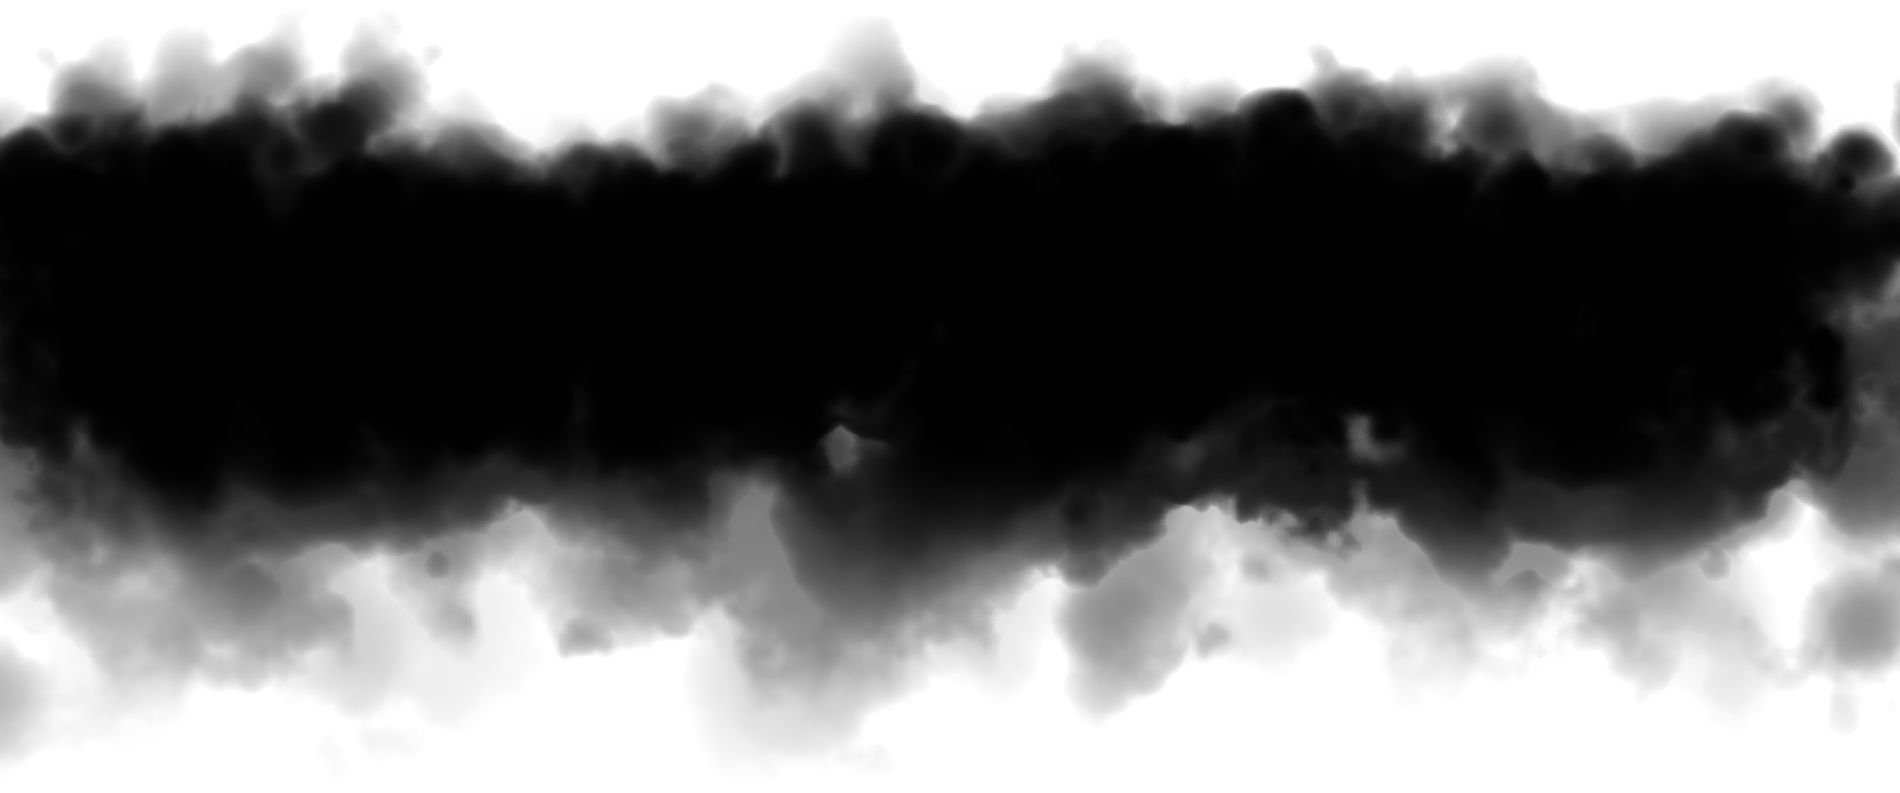
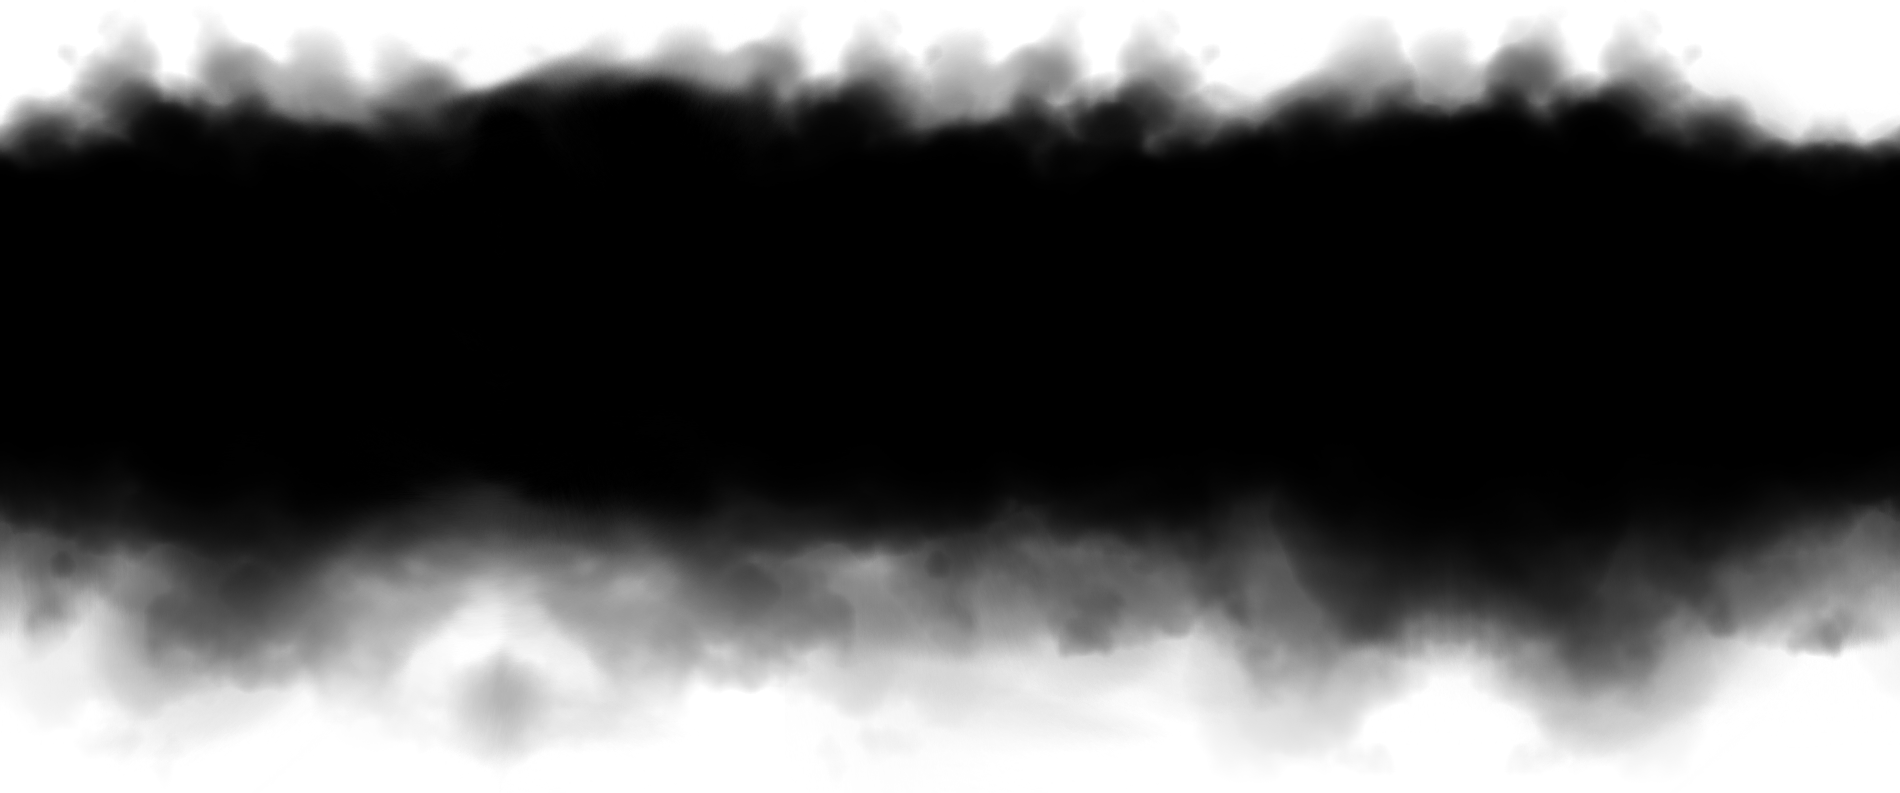
A bunch of changes
Added a bunch of assets and code, super close to finishing. Just need to finish working on collision events.

diff --git a/game.js b/game.js
@@ -22,10 +22,18 @@ const Background1Image = new Image();
 Background1Image.src = './assets/Background_01.png';
 const Background2Image = new Image();
 Background2Image.src = './assets/Background_02.png';
-const smokeCloud = new Image();
-smokeCloud.src = './assets/cloud.png';
 const smokeBigCloud = new Image();
 smokeBigCloud.src = './assets/blacksmoke.png';
+const smallGarbage = new Image();
+smallGarbage.src = './assets/Garbage1.png';
+const bigGarbage = new Image();
+bigGarbage.src = './assets/Garbage2.png';
+const deadlyGarbage = new Image();
+deadlyGarbage.src = './assets/DeadlyGarbage.png';
+const closedTrashCan = new Image();
+closedTrashCan.src = './assets/TrashCanClosed.png';
+const openTrashCan = new Image();
+openTrashCan.src = './assets/TrashCanOpen.png';
 
 const ground = {
   x: 0,
@@ -33,12 +41,6 @@ const ground = {
   width: groundPNGPixels,
   height: groundPNGPixels,
 };
-const cloud={
-  x: 0,
-  y: 0,
-  width: 0,
-  height: 0
-}
 const bigSmoke = {
   x: 0,
   y: 0,
@@ -78,8 +80,42 @@ const playerBox = {
   width: player.width-64,
   height: player.height-16
 };
-
+//trash
+const smallTrash = {
+  x:canvas.width+64,
+  y:0,
+  width: 64,
+  height: 64,
+  isSpawned: false
+}
+const bigTrash = {
+  x:canvas.width+128,
+  y:0,
+  width:96,
+  height:96,
+  isSpawned: false
+}
+const deadlyTrash = {
+  x: canvas.width + 96,
+  y:0,
+  width:128,
+  height:128,
+  isSpawned: false
+}
+const trashCan = {
+  x: canvas.width + 96,
+  y:0,
+  width:52,
+  height:96,
+  isSpawned: false,
+  current: openTrashCan
+}
 const frame = {
+  Counter: 0,
+  Delay: 0
+}
+const pollution = {
+  amount: 0,
   Counter: 0,
   Delay: 0
 }
@@ -88,6 +124,8 @@ let groundYPosition = (canvas.height-groundPNGPixels-144)  + (24);
 player.y = groundYPosition;
 let midAir = 0;
 const isdrawBox = true;
+let barWidth = 0;
+const maxWidth = 100;
 
 function checkCollision(a, b){
   if (a.x < b.x + b.width &&
@@ -109,12 +147,75 @@ function drawBox(){
   ctx.strokeStyle = "red"; // set the color of the rectangle border
   ctx.lineWidth = 2; // set the width of the rectangle border
   ctx.strokeRect(playerBox.x, playerBox.y, playerBox.width, playerBox.height); // draw the player bounding box
+  ctx.strokeRect(deadlyTrash.x, deadlyTrash.y, deadlyTrash.width, deadlyTrash.height);
+  ctx.strokeRect(smallTrash.x, smallTrash.y, smallTrash.width, smallTrash.height);
+  ctx.strokeRect(bigTrash.x, bigTrash.y, bigTrash.width, bigTrash.height);
+  ctx.strokeRect(trashCan.x, trashCan.y, trashCan.width, trashCan.height);
+}
+function spawnItem(item, itemImage, width, height){
+  if (item.x <= -item.width){
+    item.isSpawned = false;
+  }
+  if (item.isSpawned){
+    item.x -= player.speed;
+    ctx.drawImage(itemImage, 0, 0, itemImage.width, itemImage.height, item.x, item.y, width, height);
+    return
+  }
+  if (!item.isSpawned){
+    item.x = canvas.width+item.width;
+  }
 }
 
 function update() {
     // Check if player is playing
     if (!isPlaying) {
       return;
+    }
+
+    pollution.Delay = 500;
+    pollution.Counter++;
+    if (pollution.Counter >= pollution.Delay) {
+      pollution.Counter = 0;
+      pollution.amount += player.speed;
+    }
+
+    if (Math.random() < 0.005 && !smallTrash.isSpawned){
+      const random = Math.random();
+      if (random<=0.33){
+        smallTrash.y = canvas.height-ground.height-64;
+      }
+      else if(random>0.33 && random<=0.66){
+        smallTrash.y = canvas.height-ground.height-256+24;
+      }
+      else{
+        smallTrash.y = canvas.height-ground.height-384+24;
+      }
+      smallTrash.isSpawned = true;
+    }
+
+    if (Math.random() < 0.001 && !bigTrash.isSpawned){
+      const random = Math.random();
+      if (random<=0.33){
+        bigTrash.y = canvas.height-ground.height-96;
+      }
+      else if(random>0.33 && random<=0.66){
+        bigTrash.y = canvas.height-ground.height-256;
+      }
+      else{
+        bigTrash.y = canvas.height-ground.height-384;
+      }
+      bigTrash.isSpawned = true;
+    }
+
+    if (Math.random() < 0.002 && !deadlyTrash.isSpawned){
+      deadlyTrash.y = canvas.height-ground.height-110;
+      deadlyTrash.isSpawned = true;
+    }
+
+    
+    if (score>0 && score%400 == 0 && !trashCan.isSpawned){
+      trashCan.y = canvas.height-ground.height-96;
+      trashCan.isSpawned = true;
     }
 
     if(score>=100 && score<1000){
@@ -143,7 +244,9 @@ function update() {
       player.current = (player.current + 1) % player.total;
       frame.Counter = 0;
       score++;
+      bigSmoke.x = bigSmoke.x-1;
     }
+    bigSmoke.y = -500 + (pollution.amount*5);
 
     player.jumpHeight = groundYPosition - (player.jumpHeightVariable);
 
@@ -162,6 +265,9 @@ function update() {
     if (Background2.x <= (-canvas.width)) {
       Background2.x = 0;
      }
+     if (bigSmoke.x <=(-canvas.width)){
+      bigSmoke.x = 0;
+     }
 }
   
   // Set up draw function
@@ -172,12 +278,7 @@ function update() {
     ctx.drawImage(Background1Image, 0, 0, Background1Image.width, Background1Image.height, Background1.x, 0, canvas.width, canvas.height);
     ctx.drawImage(Background1Image, 0, 0, Background1Image.width, Background1Image.height, Background1.x + canvas.width, 0, canvas.width, canvas.height);
     ctx.drawImage(Background2Image, 0, 0, Background2Image.width, Background2Image.height, Background2.x, 0, canvas.width, canvas.height);
-    ctx.drawImage(Background2Image, 0, 0, Background2Image.width, Background2Image.height, Background2.x + canvas.width, 0, canvas.width, canvas.height);
-    ctx.globalAlpha = 0.8;
-    ctx.drawImage(smokeBigCloud, 0, 0, smokeBigCloud.width, smokeBigCloud.height, bigSmoke.x, bigSmoke.y, 960, 400)
-    ctx.globalAlpha = 1;
-    ctx.drawImage(smokeBigCloud, 0, 0, smokeBigCloud.width, smokeBigCloud.height, bigSmoke.x, bigSmoke.y-100, 960, 400)
-    
+    ctx.drawImage(Background2Image, 0, 0, Background2Image.width, Background2Image.height, Background2.x + canvas.width, 0, canvas.width, canvas.height);  
 
     // Draw ground
     let groundend = 0;
@@ -189,7 +290,19 @@ function update() {
       groundend = groundend + ground.width;
     }
 
-    
+    if(smallTrash.isSpawned){
+      spawnItem(smallTrash, smallGarbage, 64, 64);
+    }
+    if(bigTrash.isSpawned){
+      spawnItem(bigTrash, bigGarbage, 96, 96);
+    }
+    if(deadlyTrash.isSpawned){
+      spawnItem(deadlyTrash, deadlyGarbage, 128, 128);
+    }
+    if(trashCan.isSpawned){
+      spawnItem(trashCan, trashCan.current, 52, 96);
+    }
+
     col = player.current % player.PerRow;
     if (isJumping){
       if (player.y>=(groundYPosition-((32/player.speed)*player.jumpSpeed)) && player.jumpUp){
@@ -214,7 +327,7 @@ function update() {
         drawBox();
       }
       if (player.y <= player.jumpHeight){
-        if (midAir==16){
+        if (midAir==12){
           player.y += player.jumpSpeed;
           player.jumpUp = false;
         }
@@ -263,10 +376,21 @@ function update() {
     drawBox();
     }
 
-    
+    ctx.globalAlpha = 0.8;
+    ctx.drawImage(smokeBigCloud, 0, 0, smokeBigCloud.width, smokeBigCloud.height, bigSmoke.x, bigSmoke.y, 960, 536);
+    ctx.drawImage(smokeBigCloud, 0, 0, smokeBigCloud.width, smokeBigCloud.height, bigSmoke.x + canvas.width, bigSmoke.y, 960, 536);
+    ctx.globalAlpha = 1;
+    ctx.drawImage(smokeBigCloud, 0, 0, smokeBigCloud.width, smokeBigCloud.height, bigSmoke.x, bigSmoke.y-100, 960, 536);
+    ctx.drawImage(smokeBigCloud, 0, 0, smokeBigCloud.width, smokeBigCloud.height, bigSmoke.x + canvas.width, bigSmoke.y-100, 960, 536);
     
     ctx.font = '16px Arial';
     ctx.fillText(score, canvas.width - ctx.measureText(score).width - 10, 20);
+    ctx.fillStyle = "red";
+    const pollutionText = "Pollution";
+    ctx.fillText(pollutionText, 10, 20);
+    ctx.strokeStyle = "red";
+    ctx.strokeRect(10, 30, 100, 10);
+    ctx.fillRect(10 , 30, pollution.amount, 10);
   }
   
   // Set up game loop
@@ -293,10 +417,25 @@ function update() {
     player.y = groundYPosition;
     player.current = 0;
     player.jumpUp = true;
+    smallTrash.x = canvas.width;
+    smallTrash.isSpawned = false;
+    bigTrash.x = canvas.width;
+    bigTrash.isSpawned = false;
+    deadlyTrash.x = canvas.width;
+    deadlyTrash.isSpawned = false;
+    trashCan.x = canvas.width;
+    trashCan.isSpawned = false;
+    ctx.textAlign = "left";
     // Start game loop
     loop();
   }
   function stopGame() {
+    ctx.font = "70px Arial";
+    ctx.textAlign = "center";
+    ctx.fillText("Game Over", canvas.width/2, canvas.height/2);
+    ctx.font = "35px Arial";
+    ctx.textAlign = "center";
+    ctx.fillText("Score: "+score, canvas.width/2, canvas.height/2+70);
     isPlaying = false;
     score = 0;
     ground.x = 0;
@@ -376,11 +515,11 @@ document.addEventListener('keyup', function(event) {
     if(elapsedTime<=80){
       player.jumpHeightVariable = 40*3;
     }
-    if(elapsedTime>80 && elapsedTime<=200){
+    if(elapsedTime>80 && elapsedTime<=180){
       player.jumpHeightVariable = ((elapsedTime-(elapsedTime%2))/2)*3;
     }
-    if(elapsedTime>200){
-      player.jumpHeightVariable = 100*3;
+    if(elapsedTime>180){
+      player.jumpHeightVariable = 90*3;
     }
     
     jump();
